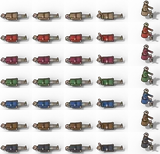
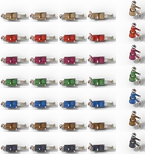
t254: unified classic-village art (default on, ?vu=0 for the old look) - one Blender kit/sun/ink/palette for ground, stores, treasury shell, well, threshing floor, stable, shrine, walls, fences, stalls, racks, cargo, fields, trees; re-rendered villagers, soldiers, carts, animals, artisans and patien

diff --git a/village-unified.js b/village-unified.js
@@ -1,0 +1,41 @@
+// v0.33 (t254) one art style for the whole classic village. Every village asset not yet on the hospital's standard is re-made in the same
+// Blender kit as the ward and the yard plates (art/vyards.py + art/vu_items.py, art/vu_style.py = one camera, sun, palette, ink weight and
+// texture grade): the ground plate (lanes with cart ruts, cobbled market, sanded drill yard, paddock, treasury court, irrigation channel),
+// storehouse bays (also the shell of the user's 大宋官库 treasury), well, threshing floor, stable, shrine, walls, fences, market stalls,
+// weapon racks, targets, banners, haystacks, fields by season, trees, and every cargo pile; villagers, soldiers, ox carts and animals are
+// re-rendered with the same sun and ink in clearer colours. Each item keeps the old sprite's ground anchor and footprint, so positions,
+// z-order, click boxes, stockpile bins, chains, haulage, the hospital and the edict ceremony are untouched.
+// Flag: ?vu=1 / ?vu=0 (remembered in localStorage sw_vu); VU.DEFAULT decides when neither is set.
+'use strict';
+const VU_META={"items":{"banner_0":{"W":39,"H":72,"ax":18.75,"ay":61.11},"banner_1":{"W":39,"H":72,"ax":18.75,"ay":61.11},"butt8_0":{"W":26,"H":47,"ax":12.5,"ay":38.75},"cgate_0":{"W":76,"H":85,"ax":37.5,"ay":56.8},"cgate_1":{"W":76,"H":85,"ax":37.5,"ay":56.8},"cwall_0":{"W":53,"H":74,"ax":22.92,"ay":50.08},"cwall_1":{"W":53,"H":74,"ax":22.92,"ay":50.08},"cwall_6":{"W":47,"H":64,"ax":22.92,"ay":40.08},"fence8_0":{"W":39,"H":55,"ax":18.75,"ay":37.22},"fence8_1":{"W":39,"H":55,"ax":18.75,"ay":37.22},"field_0":{"W":197,"H":139,"ax":97.92,"ay":71.96},"field_1":{"W":197,"H":139,"ax":97.92,"ay":71.96},"field_2":{"W":197,"H":139,"ax":97.92,"ay":71.96},"field_3":{"W":197,"H":139,"ax":97.92,"ay":71.96},"hay8_0":{"W":68,"H":82,"ax":33.25,"ay":59.94},"hay8_1":{"W":68,"H":82,"ax":33.25,"ay":59.94},"hay8_2":{"W":68,"H":82,"ax":33.25,"ay":59.94},"rack8_0":{"W":55,"H":72,"ax":27.08,"ay":55.59},"rack8_1":{"W":55,"H":72,"ax":27.08,"ay":55.59},"rack8_2":{"W":55,"H":72,"ax":27.08,"ay":55.59},"rack8_3":{"W":55,"H":72,"ax":27.08,"ay":55.59},"rack8_4":{"W":55,"H":72,"ax":27.08,"ay":55.59},"rack8_5":{"W":55,"H":72,"ax":27.08,"ay":55.59},"rack8_6":{"W":55,"H":72,"ax":27.08,"ay":55.59},"rack8_7":{"W":55,"H":72,"ax":27.08,"ay":55.59},"rack8_8":{"W":55,"H":72,"ax":27.08,"ay":55.59},"stall8_0":{"W":76,"H":76,"ax":37.25,"ay":57.07},"stall8_1":{"W":76,"H":76,"ax":37.25,"ay":57.07},"stall8_2":{"W":76,"H":76,"ax":37.25,"ay":57.07},"stall8_3":{"W":76,"H":76,"ax":37.25,"ay":57.07},"stall8_4":{"W":76,"H":76,"ax":37.25,"ay":57.07},"stall8_5":{"W":76,"H":76,"ax":37.25,"ay":57.07},"stk8_0":{"W":85,"H":72,"ax":41.67,"ay":42.98},"stk8_1":{"W":85,"H":72,"ax":41.67,"ay":42.98},"stk8_10":{"W":85,"H":72,"ax":41.67,"ay":42.98},"stk8_11":{"W":85,"H":72,"ax":41.67,"ay":42.98},"stk8_12":{"W":85,"H":72,"ax":41.67,"ay":42.98},"stk8_13":{"W":85,"H":72,"ax":41.67,"ay":42.98},"stk8_14":{"W":85,"H":72,"ax":41.67,"ay":42.98},"stk8_2":{"W":85,"H":72,"ax":41.67,"ay":42.98},"stk8_3":{"W":85,"H":72,"ax":41.67,"ay":42.98},"stk8_4":{"W":85,"H":72,"ax":41.67,"ay":42.98},"stk8_5":{"W":85,"H":72,"ax":41.67,"ay":42.98},"stk8_6":{"W":85,"H":72,"ax":41.67,"ay":42.98},"stk8_7":{"W":85,"H":72,"ax":41.67,"ay":42.98},"stk8_8":{"W":85,"H":72,"ax":41.67,"ay":42.98},"stk8_9":{"W":85,"H":72,"ax":41.67,"ay":42.98},"store8_0":{"W":235,"H":197,"ax":116.67,"ay":120.61},"store8_1":{"W":235,"H":197,"ax":116.67,"ay":120.61},"tree8_0":{"W":109,"H":148,"ax":53.92,"ay":120.51},"tree8_1":{"W":109,"H":148,"ax":53.92,"ay":120.51},"tree8_2":{"W":109,"H":148,"ax":53.92,"ay":120.51},"tree8_3":{"W":109,"H":148,"ax":53.92,"ay":120.51},"tree8_4":{"W":109,"H":148,"ax":53.92,"ay":120.51},"vbld8_1":{"W":216,"H":170,"ax":93.5,"ay":126.67},"vcomp8_1":{"W":260,"H":218,"ax":129.17,"ay":133.55},"vgate8_3":{"W":218,"H":218,"ax":108.33,"ay":143.64},"vgate8_4":{"W":218,"H":218,"ax":108.33,"ay":143.64}},"rects":{"hi":{"vcomp8_1":[0,0,390,327],"vgate8_3":[392,0,327,327],"vgate8_4":[721,0,327,327],"store8_0":[1050,0,352,296],"store8_1":[1404,0,352,296],"vbld8_1":[0,329,324,255],"tree8_0":[326,329,164,222],"tree8_1":[492,329,164,222],"tree8_2":[658,329,164,222],"tree8_3":[824,329,164,222],"tree8_4":[990,329,164,222],"field_0":[1156,329,296,208],"field_1":[1454,329,296,208],"field_2":[1752,329,296,208],"field_3":[0,586,296,208],"cgate_0":[298,586,114,128],"cgate_1":[414,586,114,128],"hay8_0":[530,586,102,123],"hay8_1":[634,586,102,123],"hay8_2":[738,586,102,123],"stall8_0":[842,586,114,114],"stall8_1":[958,586,114,114],"stall8_2":[1074,586,114,114],"stall8_3":[1190,586,114,114],"stall8_4":[1306,586,114,114],"stall8_5":[1422,586,114,114],"cwall_0":[1538,586,80,111],"cwall_1":[1620,586,80,111],"banner_0":[1702,586,58,108],"banner_1":[1762,586,58,108],"rack8_0":[1822,586,82,108],"rack8_1":[1906,586,82,108],"rack8_2":[0,796,82,108],"rack8_3":[84,796,82,108],"rack8_4":[168,796,82,108],"rack8_5":[252,796,82,108],"rack8_6":[336,796,82,108],"rack8_7":[420,796,82,108],"rack8_8":[504,796,82,108],"stk8_0":[588,796,128,108],"stk8_1":[718,796,128,108],"stk8_10":[848,796,128,108],"stk8_11":[978,796,128,108],"stk8_12":[1108,796,128,108],"stk8_13":[1238,796,128,108],"stk8_14":[1368,796,128,108],"stk8_2":[1498,796,128,108],"stk8_3":[1628,796,128,108],"stk8_4":[1758,796,128,108],"stk8_5":[1888,796,128,108],"stk8_6":[0,906,128,108],"stk8_7":[130,906,128,108],"stk8_8":[260,906,128,108],"stk8_9":[390,906,128,108],"cwall_6":[520,906,70,96],"fence8_0":[592,906,58,82],"fence8_1":[652,906,58,82],"butt8_0":[712,906,39,70]},"md":{"vcomp8_1":[0,0,260,218],"vgate8_3":[262,0,218,218],"vgate8_4":[482,0,218,218],"store8_0":[702,0,235,197],"store8_1":[939,0,235,197],"vbld8_1":[1176,0,216,170],"tree8_0":[0,220,109,148],"tree8_1":[111,220,109,148],"tree8_2":[222,220,109,148],"tree8_3":[333,220,109,148],"tree8_4":[444,220,109,148],"field_0":[555,220,197,139],"field_1":[754,220,197,139],"field_2":[953,220,197,139],"field_3":[1152,220,197,139],"cgate_0":[0,370,76,85],"cgate_1":[78,370,76,85],"hay8_0":[156,370,68,82],"hay8_1":[226,370,68,82],"hay8_2":[296,370,68,82],"stall8_0":[366,370,76,76],"stall8_1":[444,370,76,76],"stall8_2":[522,370,76,76],"stall8_3":[600,370,76,76],"stall8_4":[678,370,76,76],"stall8_5":[756,370,76,76],"cwall_0":[834,370,53,74],"cwall_1":[889,370,53,74],"banner_0":[944,370,39,72],"banner_1":[985,370,39,72],"rack8_0":[1026,370,55,72],"rack8_1":[1083,370,55,72],"rack8_2":[1140,370,55,72],"rack8_3":[1197,370,55,72],"rack8_4":[1254,370,55,72],"rack8_5":[1311,370,55,72],"rack8_6":[0,457,55,72],"rack8_7":[57,457,55,72],"rack8_8":[114,457,55,72],"stk8_0":[171,457,85,72],"stk8_1":[258,457,85,72],"stk8_10":[345,457,85,72],"stk8_11":[432,457,85,72],"stk8_12":[519,457,85,72],"stk8_13":[606,457,85,72],"stk8_14":[693,457,85,72],"stk8_2":[780,457,85,72],"stk8_3":[867,457,85,72],"stk8_4":[954,457,85,72],"stk8_5":[1041,457,85,72],"stk8_6":[1128,457,85,72],"stk8_7":[1215,457,85,72],"stk8_8":[1302,457,85,72],"stk8_9":[0,531,85,72],"cwall_6":[87,531,47,64],"fence8_0":[136,531,39,55],"fence8_1":[177,531,39,55],"butt8_0":[218,531,26,47]},"lo":{"vcomp8_1":[0,0,130,109],"vgate8_3":[132,0,109,109],"vgate8_4":[243,0,109,109],"store8_0":[354,0,118,98],"store8_1":[474,0,118,98],"vbld8_1":[594,0,108,85],"tree8_0":[0,111,54,74],"tree8_1":[56,111,54,74],"tree8_2":[112,111,54,74],"tree8_3":[168,111,54,74],"tree8_4":[224,111,54,74],"field_0":[280,111,98,70],"field_1":[380,111,98,70],"field_2":[480,111,98,70],"field_3":[580,111,98,70],"cgate_0":[680,111,38,42],"cgate_1":[0,187,38,42],"hay8_0":[40,187,34,41],"hay8_1":[76,187,34,41],"hay8_2":[112,187,34,41],"stall8_0":[148,187,38,38],"stall8_1":[188,187,38,38],"stall8_2":[228,187,38,38],"stall8_3":[268,187,38,38],"stall8_4":[308,187,38,38],"stall8_5":[348,187,38,38],"cwall_0":[388,187,26,37],"cwall_1":[416,187,26,37],"banner_0":[444,187,20,36],"banner_1":[466,187,20,36],"rack8_0":[488,187,28,36],"rack8_1":[518,187,28,36],"rack8_2":[548,187,28,36],"rack8_3":[578,187,28,36],"rack8_4":[608,187,28,36],"rack8_5":[638,187,28,36],"rack8_6":[668,187,28,36],"rack8_7":[0,231,28,36],"rack8_8":[30,231,28,36],"stk8_0":[60,231,42,36],"stk8_1":[104,231,42,36],"stk8_10":[148,231,42,36],"stk8_11":[192,231,42,36],"stk8_12":[236,231,42,36],"stk8_13":[280,231,42,36],"stk8_14":[324,231,42,36],"stk8_2":[368,231,42,36],"stk8_3":[412,231,42,36],"stk8_4":[456,231,42,36],"stk8_5":[500,231,42,36],"stk8_6":[544,231,42,36],"stk8_7":[588,231,42,36],"stk8_8":[632,231,42,36],"stk8_9":[676,231,42,36],"cwall_6":[0,269,24,32],"fence8_0":[26,269,20,28],"fence8_1":[48,269,20,28],"butt8_0":[70,269,13,24]}},"v":{"kit_hi":"d61e62f1","kit_md":"6c5316f8","kit_lo":"ac3454e9","ground_hi":"d18fb966","ground_md":"199fd258","ground_lo":"814a1fa2"},"units":{"animal":{"kind":"building","cols":1,"rows":5,"t":{"hi":{"P":4.8,"w":190,"h":164,"ax":78.0,"ay":125.69,"b":22210,"v":"dfdeb51b"},"md":{"P":2.4,"w":95,"h":82,"ax":39.0,"ay":62.85,"b":10046,"v":"a3c6f7e2"},"lo":{"P":1.2,"w":48,"h":41,"ax":19.5,"ay":31.42,"b":4096,"v":"b3c78fc9"}},"tags":["sheep","pig","ox","goat","horse"]},"merchant":{"kind":"unit","cols":14,"rows":8,"t":{"hi":{"P":4.8,"w":221,"h":171,"ax":97.0,"ay":116.62,"b":352014,"v":"7e9b17f4"},"md":{"P":2.4,"w":110,"h":86,"ax":48.5,"ay":58.31,"b":143686,"v":"0fee2aea"},"lo":{"P":1.2,"w":55,"h":43,"ax":24.25,"ay":29.15,"b":56400,"v":"42f4d856"}},"r":8.7,"nf":14,"walk":4,"ext":1},"oxcart":{"kind":"unit","cols":7,"rows":8,"t":{"hi":{"P":4.8,"w":378,"h":378,"ax":187.0,"ay":215.91,"b":663894,"v":"4a7b44c9"},"md":{"P":2.4,"w":189,"h":189,"ax":93.5,"ay":107.95,"b":298284,"v":"b0606bba"},"lo":{"P":1.2,"w":94,"h":94,"ax":46.75,"ay":53.98,"b":91198,"v":"a8cf2487"}},"r":15,"nf":7,"walk":4},"porter":{"kind":"unit","cols":14,"rows":8,"t":{"hi":{"P":4.8,"w":213,"h":165,"ax":92.0,"ay":113.94,"b":472022,"v":"e7bf43fe"},"md":{"P":2.4,"w":106,"h":82,"ax":46.0,"ay":56.97,"b":189010,"v":"737a7e9d"},"lo":{"P":1.2,"w":53,"h":41,"ax":23.0,"ay":28.48,"b":70496,"v":"1d72f9ee"}},"r":8.5,"nf":14,"walk":4,"ext":1},"song_archer":{"kind":"unit","cols":14,"rows":8,"t":{"hi":{"P":4.8,"w":224,"h":224,"ax":110.0,"ay":134.57,"b":651802,"v":"100c8652"},"md":{"P":2.4,"w":112,"h":112,"ax":55.0,"ay":67.29,"b":273620,"v":"e6b640a2"},"lo":{"P":1.2,"w":56,"h":56,"ax":27.5,"ay":33.64,"b":96952,"v":"4016b35e"}},"r":8.5,"nf":14,"walk":4,"ext":1},"song_cav":{"kind":"unit","cols":19,"rows":8,"t":{"hi":{"P":3.1742,"w":216,"h":216,"ax":106.47,"ay":137.05,"b":1036438,"v":"df96ca46"},"md":{"P":2.4,"w":163,"h":163,"ax":80.5,"ay":103.63,"b":705712,"v":"6a74d3c5"},"lo":{"P":1.2,"w":82,"h":82,"ax":40.25,"ay":51.81,"b":264138,"v":"891b4445"}},"r":12,"nf":19,"walk":8,"gait":1},"song_fire":{"kind":"unit","cols":14,"rows":8,"t":{"hi":{"P":4.8,"w":236,"h":236,"ax":116.0,"ay":142.02,"b":706860,"v":"ede6246e"},"md":{"P":2.4,"w":118,"h":118,"ax":58.0,"ay":71.01,"b":294220,"v":"2ca36e74"},"lo":{"P":1.2,"w":59,"h":59,"ax":29.0,"ay":35.5,"b":101962,"v":"d696e82d"}},"r":9,"nf":14,"walk":4,"ext":1},"song_militia":{"kind":"unit","cols":14,"rows":8,"t":{"hi":{"P":4.8,"w":224,"h":224,"ax":110.0,"ay":134.57,"b":586726,"v":"2eb187c2"},"md":{"P":2.4,"w":112,"h":112,"ax":55.0,"ay":67.29,"b":253128,"v":"7e054962"},"lo":{"P":1.2,"w":56,"h":56,"ax":27.5,"ay":33.64,"b":89530,"v":"8348c5cc"}},"r":8.5,"nf":14,"walk":4,"ext":1},"song_spear":{"kind":"unit","cols":14,"rows":8,"t":{"hi":{"P":4.8,"w":236,"h":236,"ax":116.0,"ay":142.02,"b":709686,"v":"94090b10"},"md":{"P":2.4,"w":118,"h":118,"ax":58.0,"ay":71.01,"b":301760,"v":"24c12e4f"},"lo":{"P":1.2,"w":59,"h":59,"ax":29.0,"ay":35.5,"b":105844,"v":"c242a4a4"}},"r":9,"nf":14,"walk":4,"ext":1},"song_xbow":{"kind":"unit","cols":14,"rows":8,"t":{"hi":{"P":4.8,"w":224,"h":224,"ax":110.0,"ay":134.57,"b":616102,"v":"f5abc507"},"md":{"P":2.4,"w":112,"h":112,"ax":55.0,"ay":67.29,"b":262148,"v":"df15f944"},"lo":{"P":1.2,"w":56,"h":56,"ax":27.5,"ay":33.64,"b":92946,"v":"629f54fe"}},"r":8.5,"nf":14,"walk":4,"ext":1},"vil_b":{"kind":"unit","cols":14,"rows":8,"t":{"hi":{"P":4.8,"w":225,"h":182,"ax":102.0,"ay":125.94,"b":423382,"v":"d36842da"},"md":{"P":2.4,"w":112,"h":91,"ax":51.0,"ay":62.97,"b":173948,"v":"dd58f20f"},"lo":{"P":1.2,"w":56,"h":46,"ax":25.5,"ay":31.48,"b":69272,"v":"620b7719"}},"r":8.5,"nf":14,"walk":4,"ext":1},"vil_e":{"kind":"unit","cols":14,"rows":8,"t":{"hi":{"P":4.8,"w":224,"h":205,"ax":104.0,"ay":147.6,"b":333128,"v":"be250960"},"md":{"P":2.4,"w":112,"h":102,"ax":52.0,"ay":73.8,"b":151026,"v":"8b4507d6"},"lo":{"P":1.2,"w":56,"h":51,"ax":26.0,"ay":36.9,"b":58726,"v":"ca8ef63c"}},"r":8.4,"nf":14,"walk":4,"ext":1},"vil_k":{"kind":"unit","cols":14,"rows":8,"t":{"hi":{"P":4.8,"w":150,"h":105,"ax":53.0,"ay":75.11,"b":156992,"v":"28530544"},"md":{"P":2.4,"w":75,"h":52,"ax":26.5,"ay":37.55,"b":69836,"v":"44f1a3c7"},"lo":{"P":1.2,"w":38,"h":26,"ax":13.25,"ay":18.78,"b":28676,"v":"2902f198"}},"r":6.2,"nf":14,"walk":4,"ext":1},"vil_w":{"kind":"unit","cols":14,"rows":8,"t":{"hi":{"P":4.8,"w":207,"h":153,"ax":90.0,"ay":102.91,"b":364620,"v":"7207fc02"},"md":{"P":2.4,"w":104,"h":76,"ax":45.0,"ay":51.46,"b":151080,"v":"2796acf4"},"lo":{"P":1.2,"w":52,"h":38,"ax":22.5,"ay":25.73,"b":59042,"v":"6b65507f"}},"r":8.2,"nf":14,"walk":4,"ext":1},"villager":{"kind":"unit","cols":14,"rows":8,"t":{"hi":{"P":4.8,"w":213,"h":158,"ax":92.0,"ay":105.94,"b":338610,"v":"f34e21c0"},"md":{"P":2.4,"w":106,"h":79,"ax":46.0,"ay":52.97,"b":143552,"v":"2c09f305"},"lo":{"P":1.2,"w":53,"h":40,"ax":23.0,"ay":26.48,"b":55992,"v":"de898e50"}},"r":8.5,"nf":14,"walk":4,"ext":1}},"ground":{}};
+const VU={DEFAULT:true,img:null,ground:null,tier:null,ready:false,want:null};
+function vuFlag(){if(VU.want===null){let v=null;try{const q=new URLSearchParams(location.search).get('vu');if(q==='1'||q==='0'){localStorage.setItem('sw_vu',q);v=q==='1';}
+  else{const s=localStorage.getItem('sw_vu');if(s==='1'||s==='0')v=s==='1';}}catch(e){}VU.want=v===null?VU.DEFAULT:v;}return VU.want;}
+function vuSet(on){VU.want=!!on;try{localStorage.setItem('sw_vu',on?'1':'0');}catch(e){}if(on)vuLoad();}
+// decoded bitmaps draw faster than <img> on most browsers (the core does the same for its atlases)
+function vuBM(im,cb){if(window.createImageBitmap&&!window.__noBM)createImageBitmap(im).then(cb).catch(()=>{});}
+function vuLoad(){if(!vuFlag()||!VU_META.rects)return;const t=GFX.hi?'hi':(GFX.tier||'md');if(VU.tier===t)return;VU.tier=t;VU.img=null;VU.C={};VU.ground=null;VU.ready=false;let left=2;
+  const done=()=>{if(--left<=0)VU.ready=!!(VU.img&&VU.ground);};
+  const a=new Image();a.decoding='async';a.onload=()=>{VU.img=a;VU.C={};done();};a.onerror=done;a.src=`${ART_BASE}${t}/vunified.webp?v=${VU_META.v['kit_'+t]}`;
+  const g=new Image();g.decoding='async';g.onload=()=>{VU.ground=g;vuBM(g,b=>{if(VU.ground===g)VU.ground=b;});done();};g.onerror=done;g.src=`${ART_BASE}${t}/vground_u.webp?v=${VU_META.v['ground_'+t]}`;
+  VU.U={};for(const k in VU_META.units||{})if(SPR['vu_'+k])delete SPR['vu_'+k];}
+// re-rendered people/carts/animals load lazily, the first time the village draws one (a phone never fetches cavalry it doesn't see)
+function vuSpr(k){if(SPR['vu_'+k])return true;const m=VU_META.units&&VU_META.units[k];if(!m||!VU.U||VU.U[k])return false;VU.U[k]=1;const t=VU.tier,e=m.t[t]||m.t.md;const im=new Image();im.decoding='async';
+  im.onload=()=>{if(VU.tier!==t)return;const d=sprEntry('vu_'+k,m,e===m.t[t]?t:'md',im);d.hiS=3;SPR['vu_'+k]=d;if(window.createImageBitmap&&!window.__noBM)createImageBitmap(im).then(b=>{if(SPR['vu_'+k]===d)d.img=b;}).catch(()=>{});};
+  im.src=`${ART_BASE}${t}/vu_${k}.webp?v=${e.v}`;return false;}
+function vuOn(){return MODE==='cvil'&&VU.ready&&vuFlag()&&(typeof vlOn!=='function'||vlOn());}
+// old sprite names -> unified item (variant override, y offset), mirroring the core's V8MAP
+const VU_ALIAS={stk:['stk8'],rack:['rack8'],stall:['stall8'],butt:['butt8'],haystack:['hay8'],fence:['fence8'],tree:['tree8'],vbld:['vbld8'],well:['vgate8',3,0],store2:['store8',null,-35]};
+// each item is cut once into its own bitmap: drawing sub-rects of one big atlas re-uploads the whole atlas every frame (see the core's g25 note)
+function vuCell(n){const C=VU.C||(VU.C={});let c=C[n];if(c!==undefined)return c;const R=VU_META.rects[VU.tier]?.[n];if(!R||!VU.img)return null;
+  const cv=mkCanvas(R[2],R[3]);cv.getContext('2d').drawImage(VU.img,R[0],R[1],R[2],R[3],0,0,R[2],R[3]);const o={c:cv};toBitmap(o,'c');return C[n]=o;}
+function vuDraw(n,x,y,sc){const I=VU_META.items[n];if(!I)return false;const o=vuCell(n);if(!o)return false;ctx.drawImage(o.c,x-I.ax*sc,y-I.ay*sc,I.W*sc,I.H*sc);return true;}
+// re-rendered unit atlases always draw from per-row bitmaps like the core's big atlases
+{const _b=sprBig;sprBig=function(d){return _b(d)||!!(d&&d.name&&d.name.startsWith('vu_'));};}
+{const _sp=sprProp;sprProp=function(name,x,y,v=0,sc=1){if(vuOn()){let n=name,vv=v,dy=0;const a=VU_ALIAS[name];if(a){n=a[0];if(a[1]!=null)vv=a[1];dy=a[2]||0;}
+    if(vuDraw(n+'_'+vv,x,y+dy,sc))return true;if(vuSpr(n))return _sp('vu_'+n,x,y+dy,vv,sc);}
+  return _sp.apply(this,arguments);};}
+{const _su=sprUnit;sprUnit=function(name,...rest){if(vuOn()){if(vuSpr(name))return _su.call(this,'vu_'+name,...rest);}return _su.call(this,name,...rest);};}
+// the ground plate replaces the painted village ground while the classic village is drawn
+{const old=cvil8Frame;cvil8Frame=function(dt){vuLoad();if(vuOn()&&VU.ground){const o=GROUNDS.vground;GROUNDS.vground=VU.ground;try{return old.apply(this,arguments);}finally{GROUNDS.vground=o;}}return old.apply(this,arguments);};}
+window.__vu={on:()=>vuOn(),set:vuSet,flag:vuFlag,V:'t254a'};

diff --git a/compound.js b/compound.js
@@ -4,9 +4,9 @@
 // Eight near-square courtyards in a 2x4 grid off a central lane; each is tied to a real building (furnished + crewed when built, bare with a plaque when not).
 // Workers stand at their props (anvil, vats, loom, press lever, kiln mouth, counting table...) and loop the matching action; porters carry goods room to room.
 'use strict';
-const CPD_META={"W":1240,"H":1820,"rooms":{"granary":[60,60,530,460],"treasury":[710,60,1180,460],"smithy":[60,470,530,870],"kiln":[710,470,1180,870],"press":[60,990,530,1375],"dye":[710,990,1180,1375],"brewery":[60,1385,530,1760],"tea":[710,1385,1180,1760]},"crop":{"granary":[52,30,486,438,0],"treasury":[702,30,486,438,438],"smithy":[52,440,486,438,876],"kiln":[702,440,486,438,1314],"press":[52,960,486,423,1752],"dye":[702,960,486,423,2175],"brewery":[52,1355,486,413,2598],"tea":[702,1355,486,413,3011]},"stations":[[351,220,"stack",3],[436,228,"stack",3],[248,292,"stack",2],[945,332,"count",3],[875,274,"count",0],[851,188,"stack",3],[261,654,"hammer",0],[355,714,"hammer",0],[154,670,"tend",3],[1001,750,"weave",0],[860,684,"tend",3],[1001,650,"stack",0],[192,1221,"push",3],[389,1221,"push",3],[356,1267,"pour",1],[776,1252,"stir",3],[964,1252,"lift",3],[1124,1203,"weave",3],[398,1618,"stir",3],[445,1728,"tend",3],[201,1618,"stack",3],[828,1510,"pour",1],[880,1591,"pour",2],[1044,1572,"pour",2],[1110,1546,"stir",3]],"wk":{"acts":["hammer","stir","lift","weave","push","stack","pour","tend","count"],"nf":6,"w":151.1,"h":151.1,"ax":75.6,"ay":114.0},"atlasW":486};
+const CPD_META={"W":1240,"H":1820,"rooms":{"granary":[60,60,530,460],"treasury":[710,60,1180,460],"smithy":[60,470,530,870],"kiln":[710,470,1180,870],"press":[60,990,530,1375],"dye":[710,990,1180,1375],"brewery":[60,1385,530,1760],"tea":[710,1385,1180,1760]},"crop":{"granary":[52,30,486,438,0],"treasury":[702,30,486,438,438],"smithy":[52,440,486,438,876],"kiln":[702,440,486,438,1314],"press":[52,960,486,423,1752],"dye":[702,960,486,423,2175],"brewery":[52,1355,486,413,2598],"tea":[702,1355,486,413,3011]},"stations":[[351,220,"stack",3],[436,228,"stack",3],[248,292,"stack",2],[945,332,"count",3],[875,274,"count",0],[851,188,"stack",3],[261,654,"hammer",0],[355,714,"hammer",0],[154,670,"tend",3],[1001,750,"weave",0],[860,684,"tend",3],[1001,650,"stack",0],[192,1221,"push",3],[389,1221,"push",3],[356,1267,"pour",1],[776,1252,"stir",3],[964,1252,"lift",3],[1124,1203,"weave",3],[398,1618,"stir",3],[445,1728,"tend",3],[201,1618,"stack",3],[828,1510,"pour",1],[880,1591,"pour",2],[1044,1572,"pour",2],[1110,1546,"stir",3]],"wk":{"acts":["hammer","stir","lift","weave","push","stack","pour","tend","count"],"nf":6,"w":151.1,"h":143.2,"ax":75.6,"ay":114.0},"atlasW":486};
 const CPD={W:CPD_META.W,H:CPD_META.H,img:{},tier:null,on:(()=>{try{return localStorage.getItem('sw_cpd3')==='1';}catch(e){return false;}})(),
-  R:CPD_META.rooms,V:'t251a'};
+  R:CPD_META.rooms,V:'t254a'};
 CPD.NAME={granary:['粮仓','Granary'],treasury:['大宋官库','Treasury'],smithy:['铁匠铺','Smithy'],kiln:['炭窑与陶作','Charcoal kiln & pottery'],press:['香膏油坊','Oil press & beauty workshop'],
   dye:['织染坊','Loom & dye house'],brewery:['酒坊','Brewery'],tea:['清河酒楼','Tea house & restaurant']};
 function cpdBiz(s,k){return s?.businesses?.[k]?.level||0;}

diff --git a/index.html b/index.html
@@ -4356,4 +4356,4 @@ window.__sw={
   cturn:cbotTurn,cg(){return CG;},cbot:{develop:cbotDevelop,recruit:cbotRecruit,march:cbotMarch,promote:cbotPromote},
 };
 </script><script src="frontier.js?v=0.21"></script><script src="campaign-ui.js"></script><script src="battlefields.js?v=0.23"></script><script src="song-music.js"></script><script src="medical.js"></script><script src="journey.js?v=0.15.1"></script><script src="supply.js"></script><script src="companions.js"></script><script src="refit.js"></script><script src="missions.js?v=0.15.1"></script><script src="frontier-war.js?v=0.20"></script><script src="production.js?v=0.16"></script><script src="spoils.js"></script><script src="history.js"></script><script src="jin-campaign.js?v=0.20"></script><script src="field-command.js"></script><script src="dynasty.js?v=0.25"></script><script src="realm-resources.js?v=0.17"></script><script src="dynasty-ui.js?v=0.25"></script><script src="council.js?v=0.18"></script><script src="town-models.js?v=0.17"></script><script src="production-cards.js?v=0.18"></script><script src="muster.js?v=0.18"></script><script src="banner-orders.js?v=0.19"></script><script src="banner-ui.js?v=0.19"></script><script src="npc-economy.js?v=0.20"></script><script src="campaign-art.js?v=0.21.1"></script><script src="chronicle-data.js?v=0.22"></script><script src="chronicle.js?v=0.22"></script><script src="chronicle-ui.js?v=0.22"></script><script src="tactics.js?v=0.23"></script><script src="tactics-ui.js?v=0.23"></script><script src="politics.js?v=0.25"></script><script src="politics-ui.js?v=0.24"></script><script src="map-cache.js?v=0.25"></script><script src="village-motion.js?v=0.25"></script><script src="balance.js?v=0.25"></script><script src="coach-fix.js?v=0.25"></script><script src="ledger.js?v=0.25"></script><script src="ui-fixes.js?v=0.29"></script>
-<script src="compound.js?v=0.30"></script><script src="village-life.js?v=0.32"></script><script src="village-yards.js?v=0.31"></script><script src="village-chains.js?v=0.32"></script><script src="village-scale.js?v=0.32"></script></body></html>
+<script src="compound.js?v=0.30"></script><script src="village-life.js?v=0.32"></script><script src="village-yards.js?v=0.31"></script><script src="village-chains.js?v=0.32"></script><script src="village-unified.js?v=0.33"></script><script src="village-scale.js?v=0.32"></script></body></html>

diff --git a/village-life.js b/village-life.js
@@ -6,8 +6,8 @@
 // and stand ready for deployment. Capacity matters: beds hold HOSP_CAP men per hospital level; the overflow waits outside and heals at
 // the no-hospital rate (see the woundTick wrapper). Art: art/ward.py + art/patients.py (Blender) -> assets/<tier>/ward.webp, patients.webp.
 'use strict';
-const VL_META={"W":220,"H":310,"oy":60,"beds":[[62,88],[62,124],[62,160],[62,196],[158,88],[158,124],[158,160],[158,196]],"stations":[[168,228,"stir",3],[110,230,"count",3]],"pt":{"types":["mil","spear","dao","arch","xbow","cav","fire"],"nf":5,"w":53.2,"h":36.4,"ax":28.0,"ay":31.7,"liv":{"mil":"#8c6e4a","spear":"#9a2a22","dao":"#7a2440","arch":"#3f6a3a","xbow":"#2c447a","cav":"#6a4a2a","fire":"#3a3a40"}}};
-const VL={img:{},tier:null,V:'t252a',X:1560,Y:60,FIG:20};
+const VL_META={"W":220,"H":310,"oy":60,"beds":[[62,88],[62,124],[62,160],[62,196],[158,88],[158,124],[158,160],[158,196]],"stations":[[168,228,"stir",3],[110,230,"count",3]],"pt":{"types":["mil","spear","dao","arch","xbow","cav","fire"],"nf":5,"w":48.4,"h":35.8,"ax":27.7,"ay":31.4,"liv":{"mil":"#8c6e4a","spear":"#9a2a22","dao":"#7a2440","arch":"#3f6a3a","xbow":"#2c447a","cav":"#6a4a2a","fire":"#3a3a40"}}};
+const VL={img:{},tier:null,V:'t254a',X:1560,Y:60,FIG:20};
 const HOSP_CAP=[0,160,240];
 function hospCap(id){return HOSP_CAP[hospLv(id)]||0;}
 function vlLoad(){const t=GFX.tier||'md';if(VL.tier===t)return;VL.tier=t;VL.img={};
